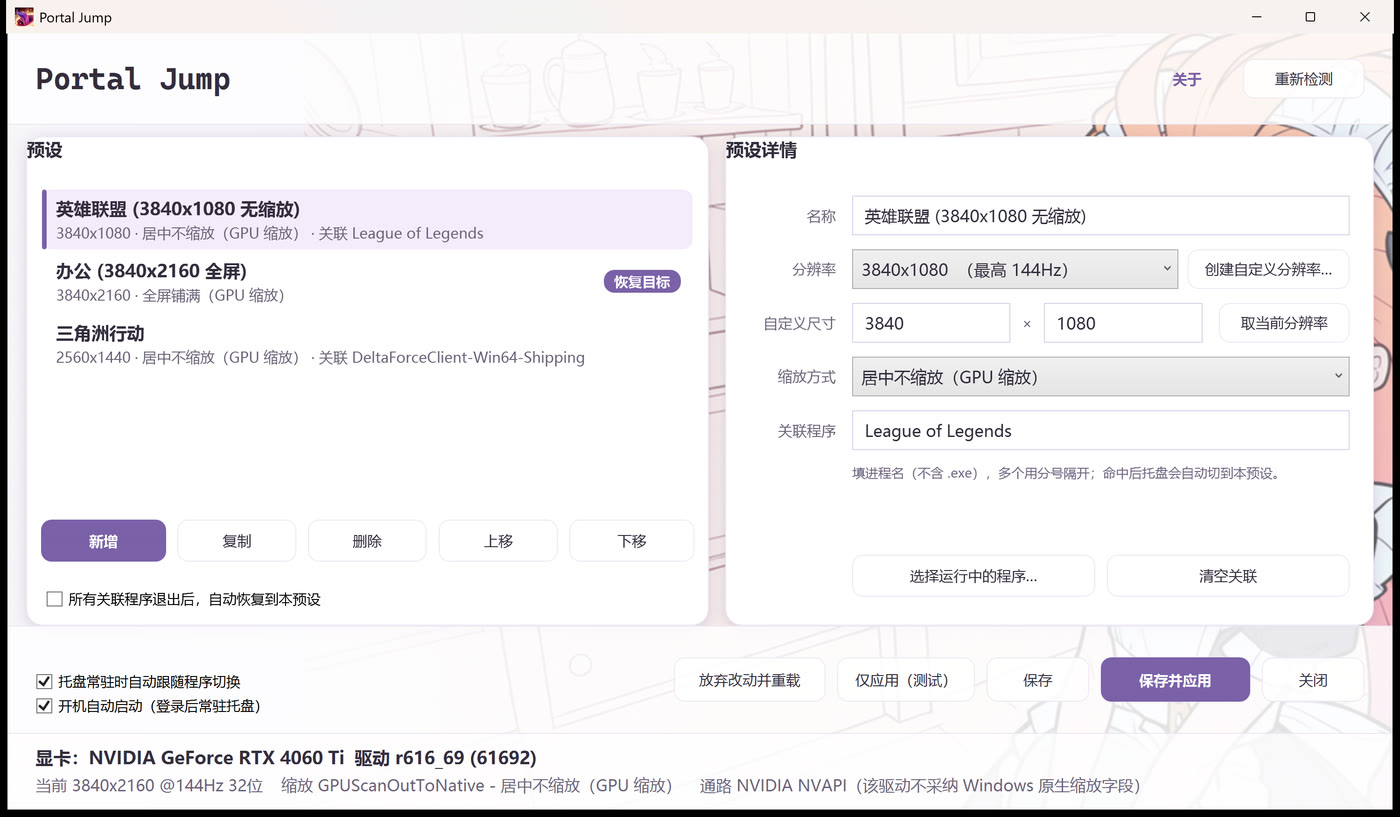
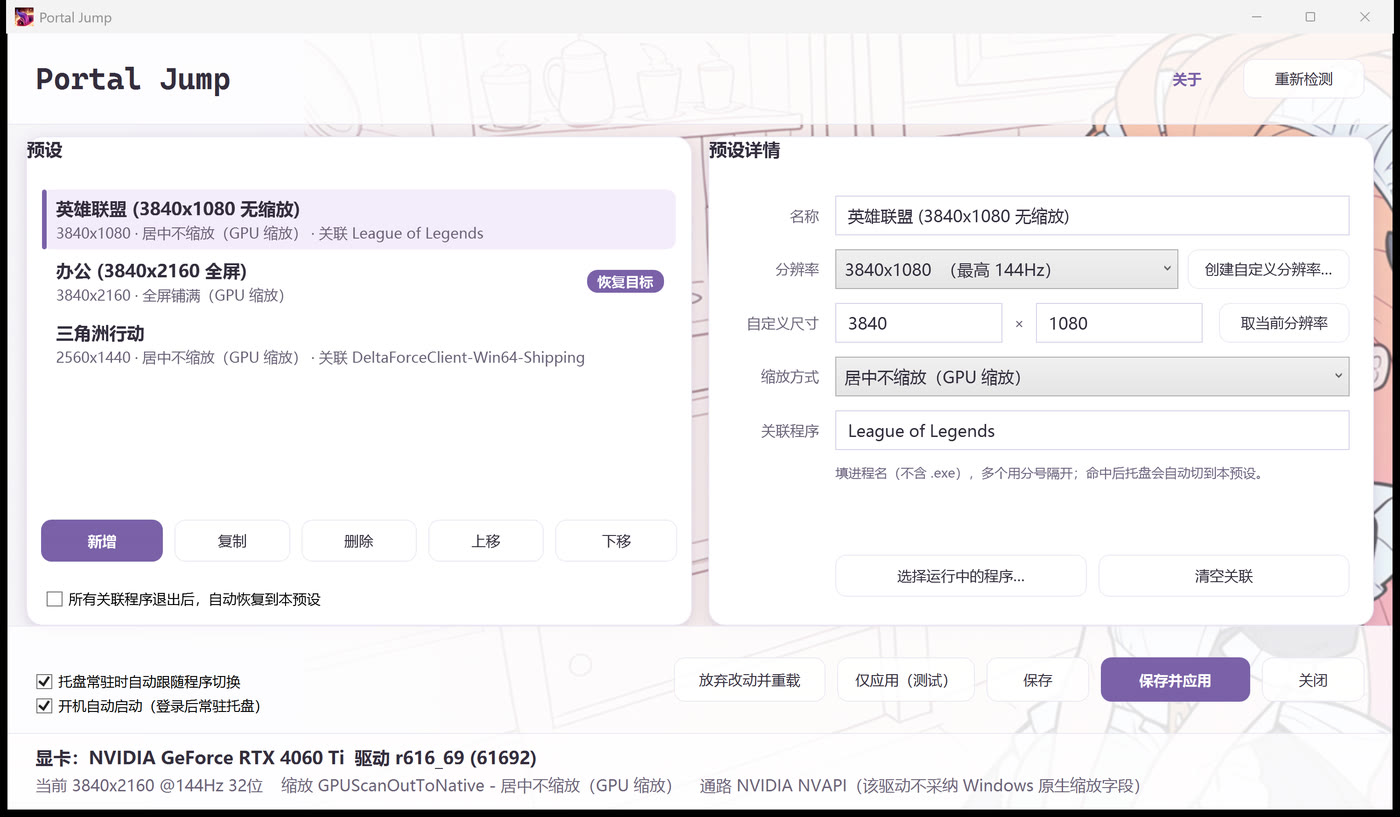
fix(WPF): 两张卡片等宽，修掉「预设 / 预设详情」错位
问题：
列宽定义是 `*` 和 `0.95*`，右卡比左卡窄 5%。
实测物理像素：左卡 1458px、右卡 1385px（差 73px = 29 逻辑像素），
两张卡片右边缘不齐，视觉上就是"错位"。

修复：
两列都改为 `*`，严格等宽。

验证（物理像素，250% 缩放）：
- 左卡 1423px / 右卡 1422px（差 1px，渲染取整）
- 标题左内边距 两边都是 8px，完全一致
- 标题垂直位置 两边 y=303，完全对齐
- 19 个按钮逐项核对齐全

同步更新 docs/screenshot-settings.jpg。

diff --git a/src-ui/SettingsWindow.xaml b/src-ui/SettingsWindow.xaml
@@ -150,9 +150,12 @@
       <!-- ========== 两张卡片 ========== -->
       <Grid Grid.Row="1" Margin="16,10,16,0">
         <Grid.ColumnDefinitions>
+          <!-- 两列等宽（原来是 * 和 0.95*，右卡比左卡窄 5%，
+               两张卡片右边缘不对齐，看起来是"错位"）。
+               左右都用 * 让两卡严格等宽；中间 14 是卡片间距。 -->
           <ColumnDefinition Width="*" MinWidth="400" />
           <ColumnDefinition Width="14" />
-          <ColumnDefinition Width="0.95*" MinWidth="520" />
+          <ColumnDefinition Width="*" MinWidth="520" />
         </Grid.ColumnDefinitions>
 
         <!-- 预设列表卡 -->
